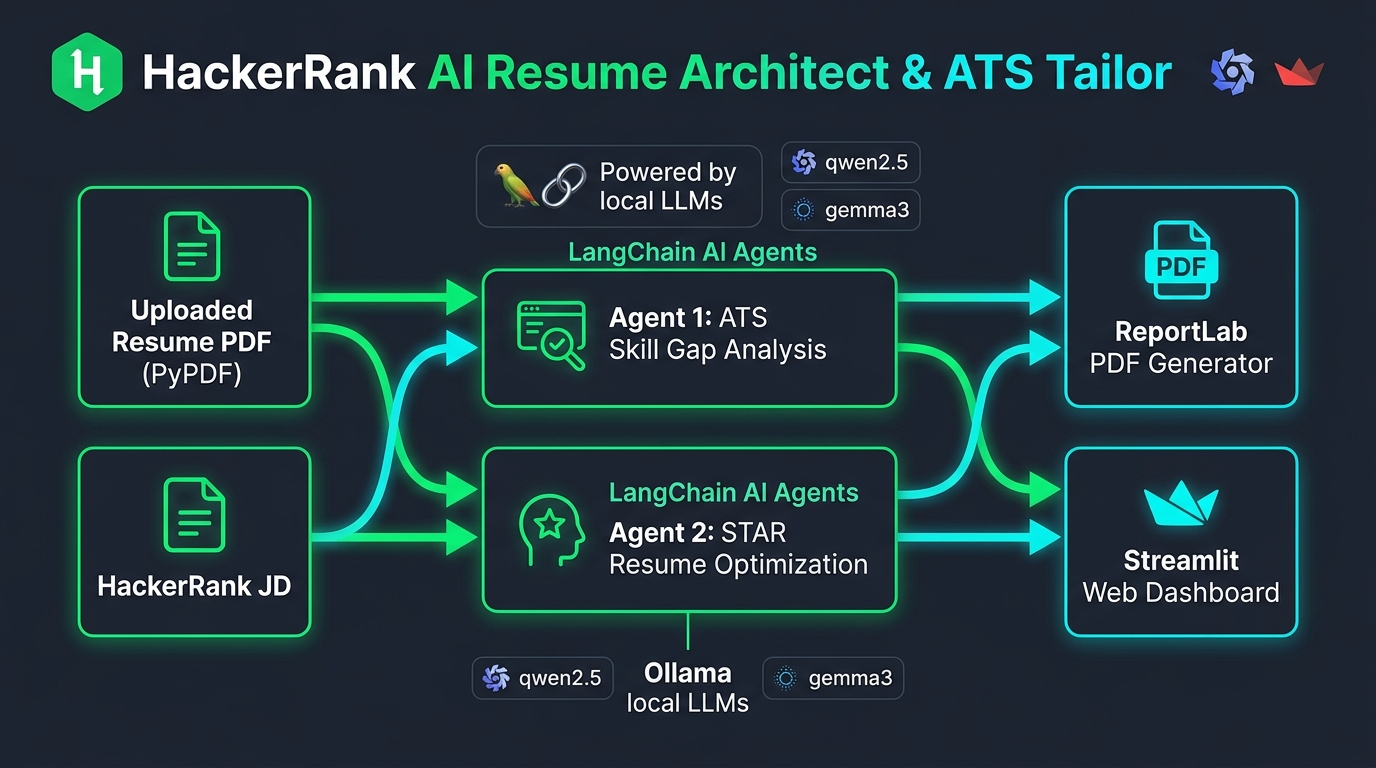
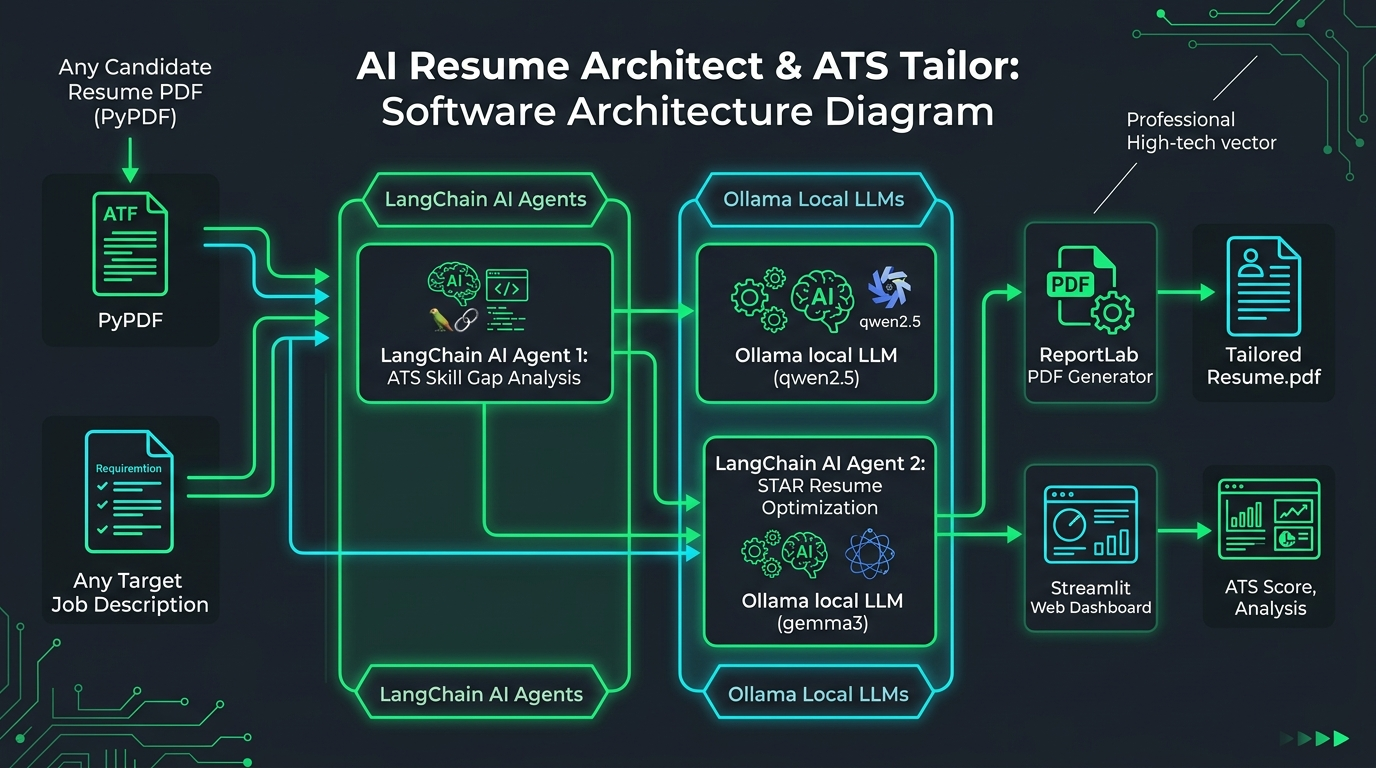
refactor: make AI Resume Architect universal for any resume and any JD with custom presets

diff --git a/app.py b/app.py
@@ -10,13 +10,13 @@ from pdf_generator import generate_resume_pdf
 
 # Page Config
 st.set_page_config(
-    page_title="AI Resume Architect & ATS Tailor for HackerRank",
+    page_title="Universal AI Resume Architect & ATS Tailor",
     page_icon="⚡",
     layout="wide",
     initial_sidebar_state="expanded"
 )
 
-# Custom CSS for Modern HackerRank-inspired styling
+# Custom CSS for Modern styling
 st.markdown("""
 <style>
     .main-title {
@@ -29,13 +29,6 @@ st.markdown("""
         font-size: 1.05rem;
         color: #A0AEC0;
         margin-bottom: 20px;
-    }
-    .metric-card {
-        background-color: #1A202C;
-        border-left: 5px solid #00EA64;
-        padding: 15px;
-        border-radius: 8px;
-        margin-bottom: 15px;
     }
     .badge-matched {
         background-color: #1C4532;
@@ -62,8 +55,9 @@ st.markdown("""
 </style>
 """, unsafe_allow_html=True)
 
-# Default HackerRank SDE Intern JD Preset
-DEFAULT_HACKERRANK_JD = """HackerRank Software Development Engineer Intern (Bengaluru, 6-Month Full-time Onsite)
+# Presets for quick selection
+PRESET_JDS = {
+    "HackerRank SDE Intern Role": """HackerRank Software Development Engineer Intern (Bengaluru, 6-Month Full-time Onsite)
 Overview:
 HackerRank helps companies like NVIDIA, Amazon, and Microsoft hire and upskill the next generation of developers based on skills, not pedigree.
 Software has entered an era where humans and AI build side by side. As this shift accelerates, the definition of strong technical talent is changing.
@@ -73,29 +67,50 @@ Requirements & Principles:
 - Developers first: Every decision gets one test: does it help developers do their best work?
 - Technical Skills: Strong foundation in Data Structures, Algorithms, Python, C++, or Java, REST APIs, Git, Automated Testing, and System Design concepts.
 - Building side-by-side with AI tools (Gemini, Copilot, LangChain).
-- Data-driven engineering, high standards, ownership, and transparent communication."""
+- Data-driven engineering, high standards, ownership, and transparent communication.""",
+
+    "General Software Development Engineer (Full-Time / Intern)": """Software Development Engineer (SDE)
+We are looking for a Software Development Engineer to join our core product team. You will be responsible for building high-performance, scalable web services and backend architectures.
+
+Key Responsibilities & Qualifications:
+- Proficiency in Python, Java, or C++ with a strong grasp of Object-Oriented Programming (OOP).
+- Strong understanding of Data Structures, Algorithms, and System Design.
+- Hands-on experience developing RESTful APIs and working with relational databases (PostgreSQL, MySQL).
+- Familiarity with CI/CD pipelines, Git version control, and automated unit/integration testing.
+- Strong problem-solving skills, clean code habits, and ability to work in an agile team environment.""",
+
+    "AI / Machine Learning Engineer": """AI / Machine Learning Engineer
+Looking for an AI/ML Engineer to build intelligent agentic systems, LLM workflows, and data pipelines.
+
+Requirements:
+- Strong programming skills in Python, PyTorch, or TensorFlow.
+- Experience building AI workflows with LangChain, LlamaIndex, or agentic frameworks.
+- Deep understanding of NLP, Transformer architectures, prompt engineering, and fine-tuning.
+- Experience with vector databases (ChromaDB, Pinecone) and REST API deployment (FastAPI, Docker).
+- Ability to deploy local LLMs using Ollama or vLLM."""
+}
 
 DEFAULT_SAMPLE_RESUME = """Karthik Vangapandu
 Email: karthik.v@example.com | Phone: +91 9876543210 | GitHub: github.com/karthik
 Location: Bengaluru, India
 
 Summary:
-Motivated Computer Science student passionate about web development and coding. Looking for an SDE Internship opportunity.
+Motivated Computer Science student passionate about web development, coding, and building AI tools. Looking for an SDE Internship opportunity.
 
 Technical Skills:
 Languages: Python, JavaScript, HTML/CSS, SQL
 Tools & Frameworks: Git, React, Node.js, Express, MySQL
 
 Experience:
-Web Developer Intern | Tech Solutions (Jan 2024 - May 2024)
+Software Engineering Intern | Tech Solutions (Jan 2024 - May 2024)
 - Developed frontend components using React.
 - Wrote backend APIs in Node.js and SQL queries.
 - Used Git for version control.
 
 Projects:
-Automated Scripting Tool (Python)
+Automated Scripting & Data Pipeline (Python)
 - Wrote Python scripts to scrape website data and format into CSV files.
-- Used basic error handling.
+- Used basic error handling and data cleaning scripts.
 
 Web App for Task Management (React, Node.js)
 - Created a task tracker app with user authentication and database storage.
@@ -106,8 +121,8 @@ ABC Institute of Technology, CGPA: 8.5/10
 """
 
 # Header
-st.markdown('<div class="main-title">⚡ AI Resume Architect & ATS Tailor</div>', unsafe_allow_html=True)
-st.markdown('<div class="sub-title">Powered by <b>LangChain</b> + <b>Ollama (Local LLMs)</b> + <b>PyPDF</b> for HackerRank SDE Intern Role</div>', unsafe_allow_html=True)
+st.markdown('<div class="main-title">⚡ Universal AI Resume Architect & ATS Tailor</div>', unsafe_allow_html=True)
+st.markdown('<div class="sub-title">Powered by <b>LangChain</b> + <b>Ollama (Local LLMs)</b> + <b>PyPDF</b> | Tailor <i>Any Resume</i> for <i>Any Job Description</i></div>', unsafe_allow_html=True)
 
 # Sidebar Controls
 st.sidebar.header("⚙ Configuration")
@@ -120,7 +135,7 @@ uploaded_file = st.sidebar.file_uploader("Upload Existing Resume (PDF)", type=["
 use_sample_resume = st.sidebar.checkbox("Use Sample Resume", value=(uploaded_file is None))
 
 st.sidebar.markdown("---")
-st.sidebar.info("💡 **HackerRank SDE Intern Presets Loaded**\n- PyPDF Text Extraction\n- Agent 1: ATS Audit Chain\n- Agent 2: STAR Tailor Chain\n- ReportLab ATS PDF Export")
+st.sidebar.info("💡 **Universal Multi-Agent Pipeline**\n- PyPDF Text Extraction\n- Agent 1: ATS Audit Chain\n- Agent 2: STAR Tailor Chain\n- ReportLab ATS PDF Export")
 
 # Resume Text Extraction
 resume_text = ""
@@ -144,7 +159,9 @@ with col_left:
 
 with col_right:
     st.subheader("🎯 Target Job Description (JD)")
-    jd_text_area = st.text_area("Paste JD Text", value=DEFAULT_HACKERRANK_JD, height=350)
+    selected_preset = st.selectbox("Quick Load Preset JD", list(PRESET_JDS.keys()), index=0)
+    jd_default_val = PRESET_JDS[selected_preset]
+    jd_text_area = st.text_area("Paste or Edit JD Text", value=jd_default_val, height=295)
 
 st.markdown("---")
 
@@ -153,7 +170,6 @@ if st.button("🚀 Run 2-Agent AI Workflow (Analyze & Tailor)", type="primary", 
     if not resume_text_area.strip() or not jd_text_area.strip():
         st.warning("Please provide both Resume Text and Job Description text.")
     else:
-        # Initialize session state for workflow outputs
         st.session_state["workflow_completed"] = False
         
         # Step 1: Run Agent 1
@@ -172,7 +188,7 @@ if st.button("🚀 Run 2-Agent AI Workflow (Analyze & Tailor)", type="primary", 
 
         # Step 3: PDF Generation
         with st.status("🖨 Compiling ATS PDF Resume using ReportLab...", expanded=True) as status:
-            pdf_path = generate_resume_pdf(tailored_result, "hackerrank_tailored_resume.pdf")
+            pdf_path = generate_resume_pdf(tailored_result, "tailored_resume.pdf")
             st.session_state["pdf_path"] = pdf_path
             status.update(label="✅ ATS PDF Resume Generated!", state="complete", expanded=False)
 
@@ -218,7 +234,7 @@ if st.session_state.get("workflow_completed", False):
                 st.warning(f"• {bullet}")
 
         with c2:
-            st.subheader("💚 HackerRank Cultural Alignment Notes")
+            st.subheader("💚 Company & Cultural Alignment Notes")
             for note in ats_data.get("hackerrank_alignment", []):
                 st.info(f"• {note}")
 
@@ -254,7 +270,7 @@ if st.session_state.get("workflow_completed", False):
     # Tab 3: PDF Download
     with tab3:
         st.subheader("🖨 Ready to Submit ATS PDF Resume")
-        st.write("Your tailored resume has been converted into an ATS-scannable single-page PDF formatted specifically for the HackerRank SDE Intern role.")
+        st.write("Your tailored resume has been converted into an ATS-scannable single-page PDF formatted specifically for your target job description.")
         
         if os.path.exists(pdf_filepath):
             with open(pdf_filepath, "rb") as f:
@@ -262,7 +278,7 @@ if st.session_state.get("workflow_completed", False):
             st.download_button(
                 label="📥 Download Tailored ATS PDF Resume",
                 data=pdf_data,
-                file_name=f"{tailored_data.get('full_name', 'Tailored').replace(' ', '_')}_HackerRank_Resume.pdf",
+                file_name=f"{tailored_data.get('full_name', 'Tailored').replace(' ', '_')}_Tailored_Resume.pdf",
                 mime="application/pdf",
                 type="primary",
                 use_container_width=True

diff --git a/README.md b/README.md
@@ -1,21 +1,24 @@
-# ⚡ HackerRank AI Resume Architect & ATS Tailor
+# ⚡ Universal AI Resume Architect & ATS Tailor
 
-> **Multi-Agent Resume Optimization System** powered by **LangChain**, **Ollama (Local LLMs: Qwen 2.5 & Gemma 3)**, **PyPDF**, and **ReportLab**, custom-engineered for the **HackerRank SDE Intern Role** (*"Care about the craft"*, *"Humans & AI build side-by-side"*).
+> **Multi-Agent Resume Optimization System** powered by **LangChain**, **Ollama (Local LLMs: Qwen 2.5 & Gemma 3)**, **PyPDF**, and **ReportLab**. Analyzes **ANY candidate resume** against **ANY job description (JD)** to optimize ATS match scores and export standard-setting, ATS-compliant PDF resumes.
 
-![HackerRank AI Resume Architect Architecture](./docs/architecture.png)
+![AI Resume Architect Architecture](./docs/architecture.png)
 
 ---
 
 ## 🌟 Overview
 
-The **HackerRank AI Resume Architect** is a privacy-first, 100% local multi-agent system designed to optimize tech resumes for competitive software engineering positions. By pairing **PyPDF** text extraction with **LangChain** agent orchestration and **Ollama local LLMs**, the application conducts a deep ATS (Applicant Tracking System) audit and rewrites resume bullet points using the **STAR Method** (Situation, Task, Action, Result).
+The **Universal AI Resume Architect & ATS Tailor** is a privacy-first, 100% local multi-agent system designed to optimize tech resumes for any software engineering role, company, or job description. By combining **PyPDF** text extraction with **LangChain** agent orchestration and **Ollama local LLMs**, the application conducts a deep ATS (Applicant Tracking System) audit and rewrites resume bullet points using the **STAR Method** (Situation, Task, Action, Result).
 
 ### 🎯 Key Highlights:
-- **Zero Cloud API Dependencies:** Runs 100% locally via Ollama (`qwen2.5:latest` and `gemma3:4b`).
-- **Dual AI Agent Pipeline:** Agent 1 (ATS Auditor) & Agent 2 (STAR Resume Architect).
-- **Automated PyPDF Text Extraction:** Parses PDF resumes into structured sections seamlessly.
+- **Universal Compatibility:** Works with any PDF resume input and any target Job Description (SDE Intern, Full-Time SDE, Backend, Frontend, AI/ML, DevOps, etc.).
+- **Zero Cloud API Dependencies:** Runs 100% locally via Ollama (`qwen2.5:latest` and `gemma3:4b`), keeping user resumes 100% private.
+- **Dual AI Agent Pipeline:** 
+  - **Agent 1 (ATS & Skill Gap Auditor):** Computes ATS score, identifies missing keywords, flags weak bullet points, and checks company cultural alignment.
+  - **Agent 2 (STAR Resume Architect):** Rewrites experiences and project descriptions into high-impact STAR bullet points with quantifiable metrics.
+- **Automated PyPDF Text Extraction:** Parses PDF resumes into structured text sections seamlessly.
 - **ATS-Compliant PDF Generation:** Compiles optimized content into a clean single-page PDF using ReportLab.
-- **Interactive Streamlit Web Dashboard:** Modern dark-mode UI with live ATS gauges, side-by-side comparisons, and instant PDF download.
+- **Interactive Streamlit Web Dashboard:** Modern dark-mode UI with live ATS gauges, side-by-side comparisons, preset JDs, and instant PDF download.
 
 ---
 
@@ -23,14 +26,14 @@ The **HackerRank AI Resume Architect** is a privacy-first, 100% local multi-agen
 
 ```mermaid
 graph TD
-    A[📄 Upload Resume PDF] -->|PyPDF Parser| B[Raw Text & Sections]
-    C[📋 HackerRank SDE Intern JD] --> D[Agent 1: ATS & Skill Gap Auditor]
+    A[📄 Upload Any Resume PDF] -->|PyPDF Parser| B[Raw Text & Sections]
+    C[📋 Paste Any Job Description JD] --> D[Agent 1: ATS & Skill Gap Auditor]
     B --> D
     D -->|ATS Score & Gap Analysis| E[Agent 2: STAR Resume Architect]
     B --> E
     C --> E
     E -->|Structured JSON| F[ReportLab PDF Engine]
-    F -->|ATS Compliant PDF| G[⬇ Downloadable PDF Resume]
+    F -->|ATS Compliant PDF| G[⬇ Downloadable Tailored PDF Resume]
     D --> H[Streamlit Interactive Dashboard]
     E --> H
 ```
@@ -40,21 +43,22 @@ graph TD
 ## 🤖 The 2 AI Agents
 
 ### 📊 Agent 1: `ATS & Skill Gap Auditor` (`ats_analyzer_agent.py`)
-* **Role:** Evaluates candidate resume text against the target Job Description.
+* **Role:** Evaluates candidate resume text against any target Job Description.
 * **LangChain Engine:** Uses `JsonOutputParser` + Pydantic schema validation over `ChatOllama`.
 * **Output Metrics:**
   * **ATS Match Score (%)**: Overall compatibility percentage.
-  * **Matched Skills**: Overlapping hard skills and frameworks.
+  * **Matched Skills**: Overlapping hard skills, tools, and frameworks.
   * **Missing Keywords**: Crucial tech stack & concepts missing from the candidate's profile.
   * **Weak Bullets**: Bullet points lacking metrics or STAR structure.
-  * **HackerRank Values Alignment**: Checks for developer tool passion, clean code, and human+AI side-by-side building principles.
+  * **Cultural & Role Alignment**: Checks for key principles emphasized in the target JD.
+  * **Actionable Recommendations**: 3-5 high-priority steps to elevate the candidate's application.
 
 ### 📝 Agent 2: `STAR Resume Architect` (`resume_tailor_agent.py`)
-* **Role:** Rewrites and optimizes candidate experiences and project descriptions.
+* **Role:** Rewrites and optimizes candidate experiences and project descriptions for the target JD.
 * **LangChain Engine:** Consumes candidate text + Agent 1 gap analysis to produce structured JSON data.
 * **Optimization Highlights:**
   * Rewrites generic descriptions into high-impact STAR-format bullet points.
-  * Weaves in missing keywords (e.g. *REST APIs, Automated Testing, Python/C++/Java, Git, Data Structures*) naturally.
+  * Weaves in missing keywords and key technologies naturally.
   * Preserves truthful candidate experience while elevating technical impact metrics.
 
 ---
@@ -77,7 +81,7 @@ graph TD
 Ensure you have Python 3.9+ installed and Ollama running locally:
 
 ```bash
-# Verify Ollama installation & pull recommended model
+# Verify Ollama installation & pull recommended models
 ollama pull qwen2.5:latest
 ollama pull gemma3:4b
 ```
@@ -86,8 +90,8 @@ ollama pull gemma3:4b
 
 ```bash
 # Clone the repository
-git clone https://github.com/your-username/hackerrank-ai-resume-architect.git
-cd hackerrank-ai-resume-architect
+git clone https://github.com/your-username/ai-resume-architect.git
+cd ai-resume-architect
 
 # Create and activate virtual environment
 python3 -m venv venv
